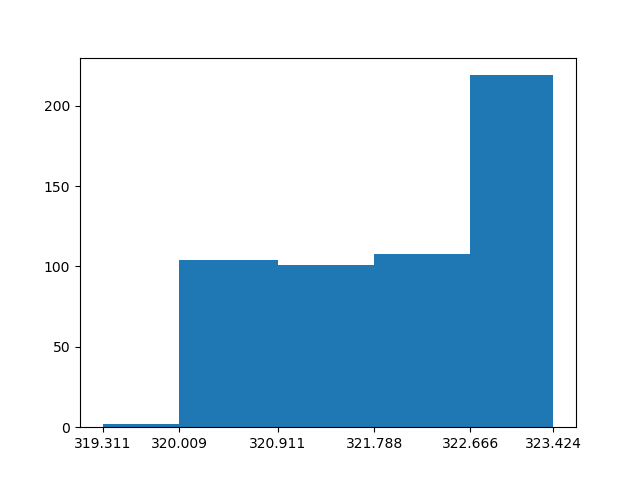
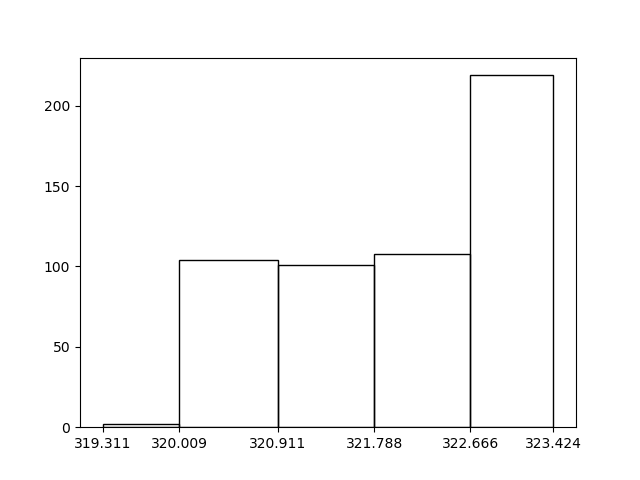
unfiil bar

Changed region(s): [[0.1562, 0.1562, 0.875, 0.9062]]

diff --git a/histogram.py b/histogram.py
@@ -47,7 +47,7 @@ width = np.diff(bins)
 center = (bins[:-1] + bins[1:]) / 2
 
 fig, ax = plt.subplots()
-ax.bar(center, hist, align='center', width=width)
+ax.bar(center, hist, align='center', width=width, fill = False)
 ax.set_xticks(bins)
 
 fig.savefig("out.png")
